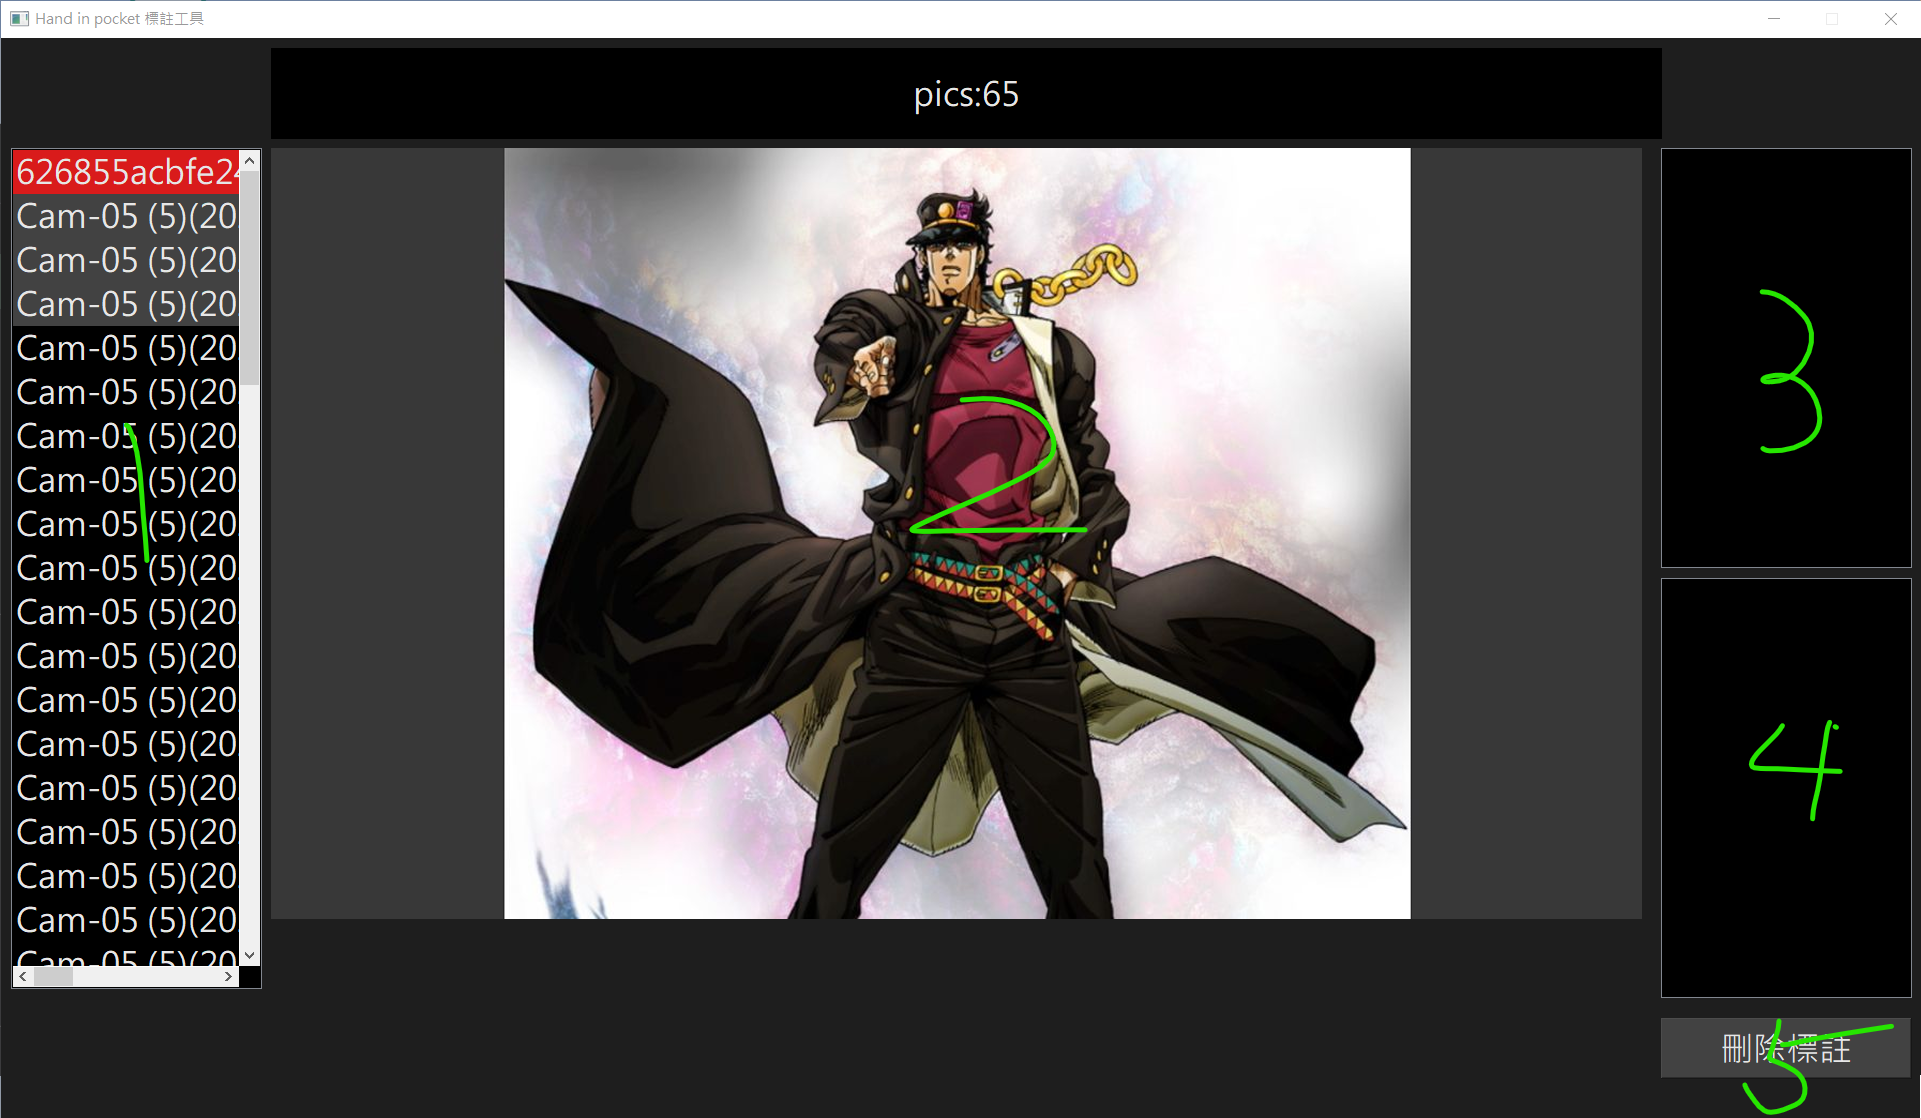
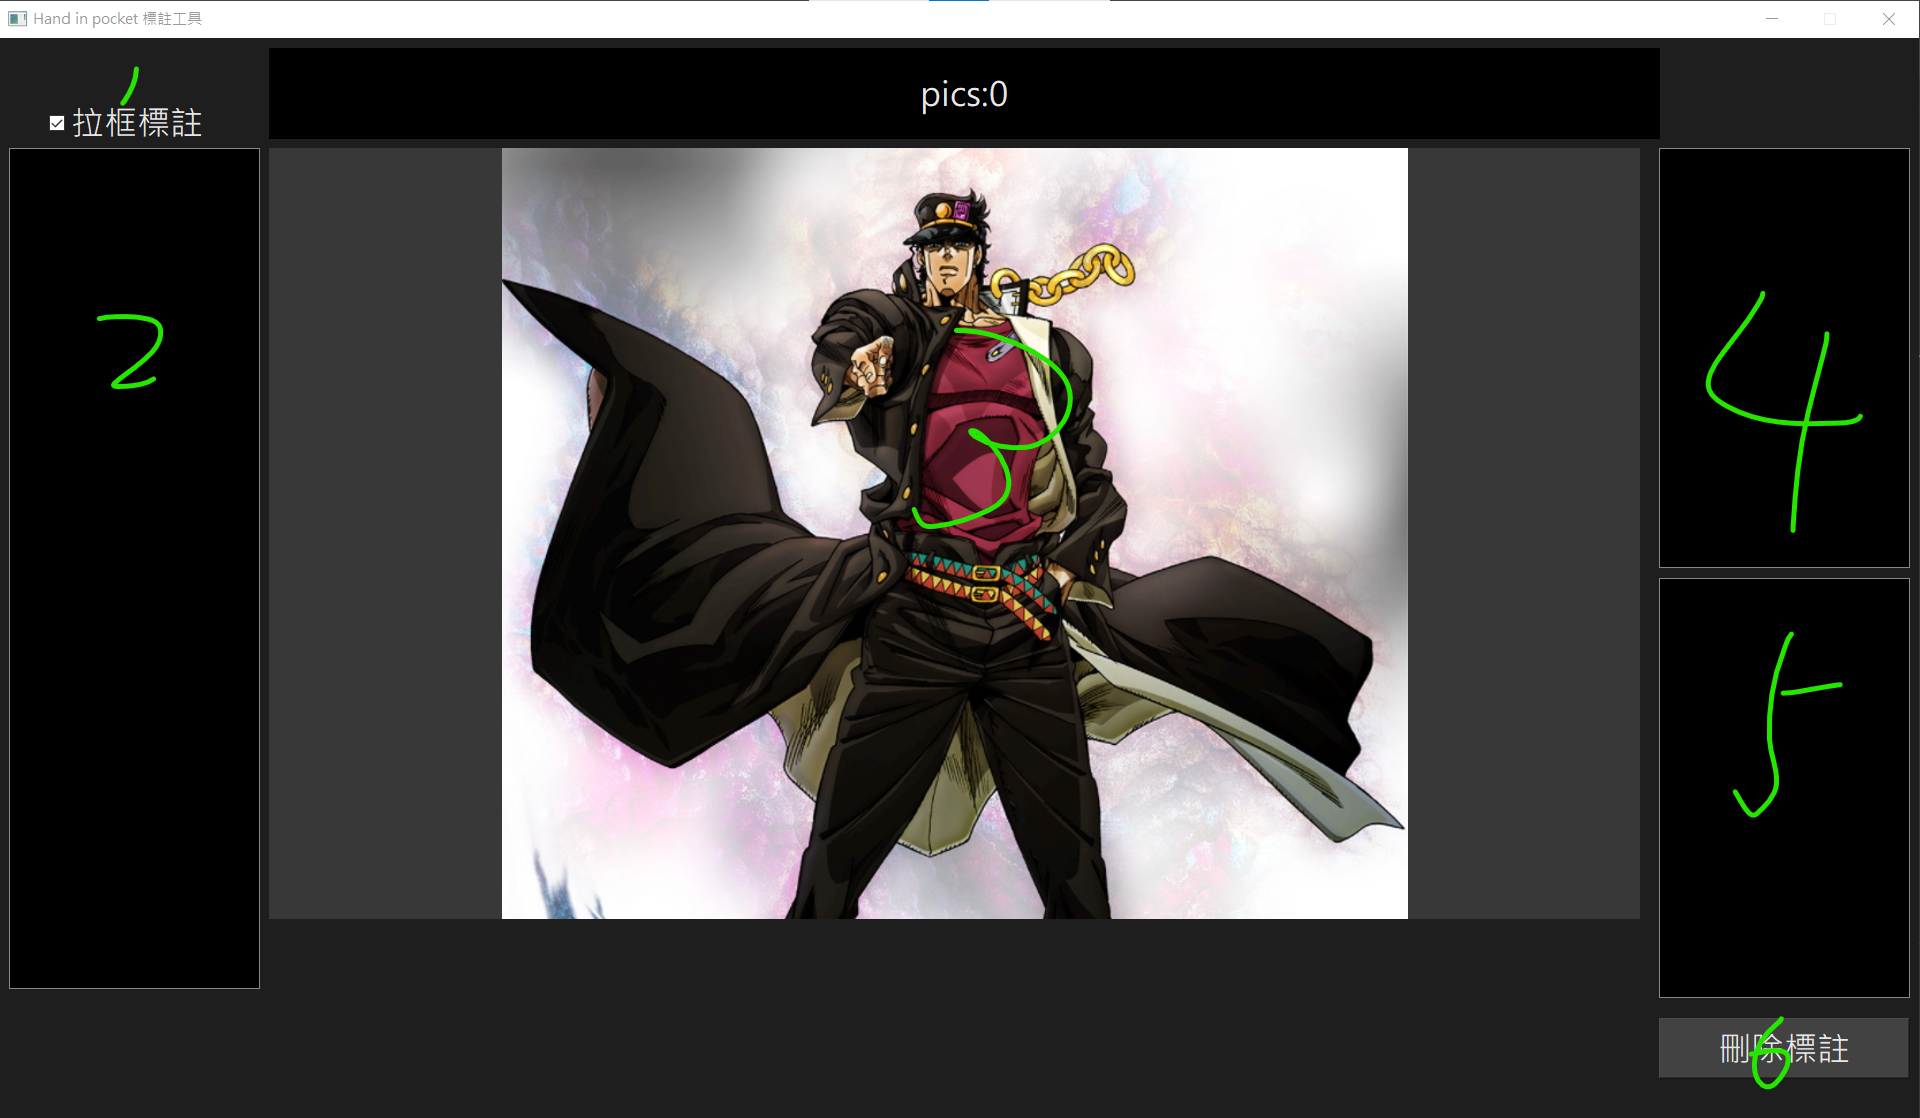
read me

diff --git a/README.md b/README.md
@@ -1,2 +1,17 @@
 # two_class_labeler
-標註用
+## 操作流程
+
+1.  手動建立 data 資料夾或開啟程式自動建立資料夾
+2.  將照片放入 data
+3.  開啟程式開始操作標註
+4.  標註結果將存於 train_data 資料夾
+
+## 操作說明
+<img src="assets/main.png" width="853"/>
+
+1.  若照片為整張需要裁切則打勾
+2.  照片列表，點選照片將讀取到畫面3
+3.  標註區域，若要裁切則直接於畫面中用左鍵或右鍵拖曳拉框標註，左右鍵將視為兩個不同的 class 分開儲存，若不裁切則直接點擊左右鍵分類
+4.  以左鍵標註圖片將存於此，可以點擊瀏覽標註內容
+5.  同上，以右鍵標註的 (ry
+6.  瀏覽標註內容時可以刪除該標註
